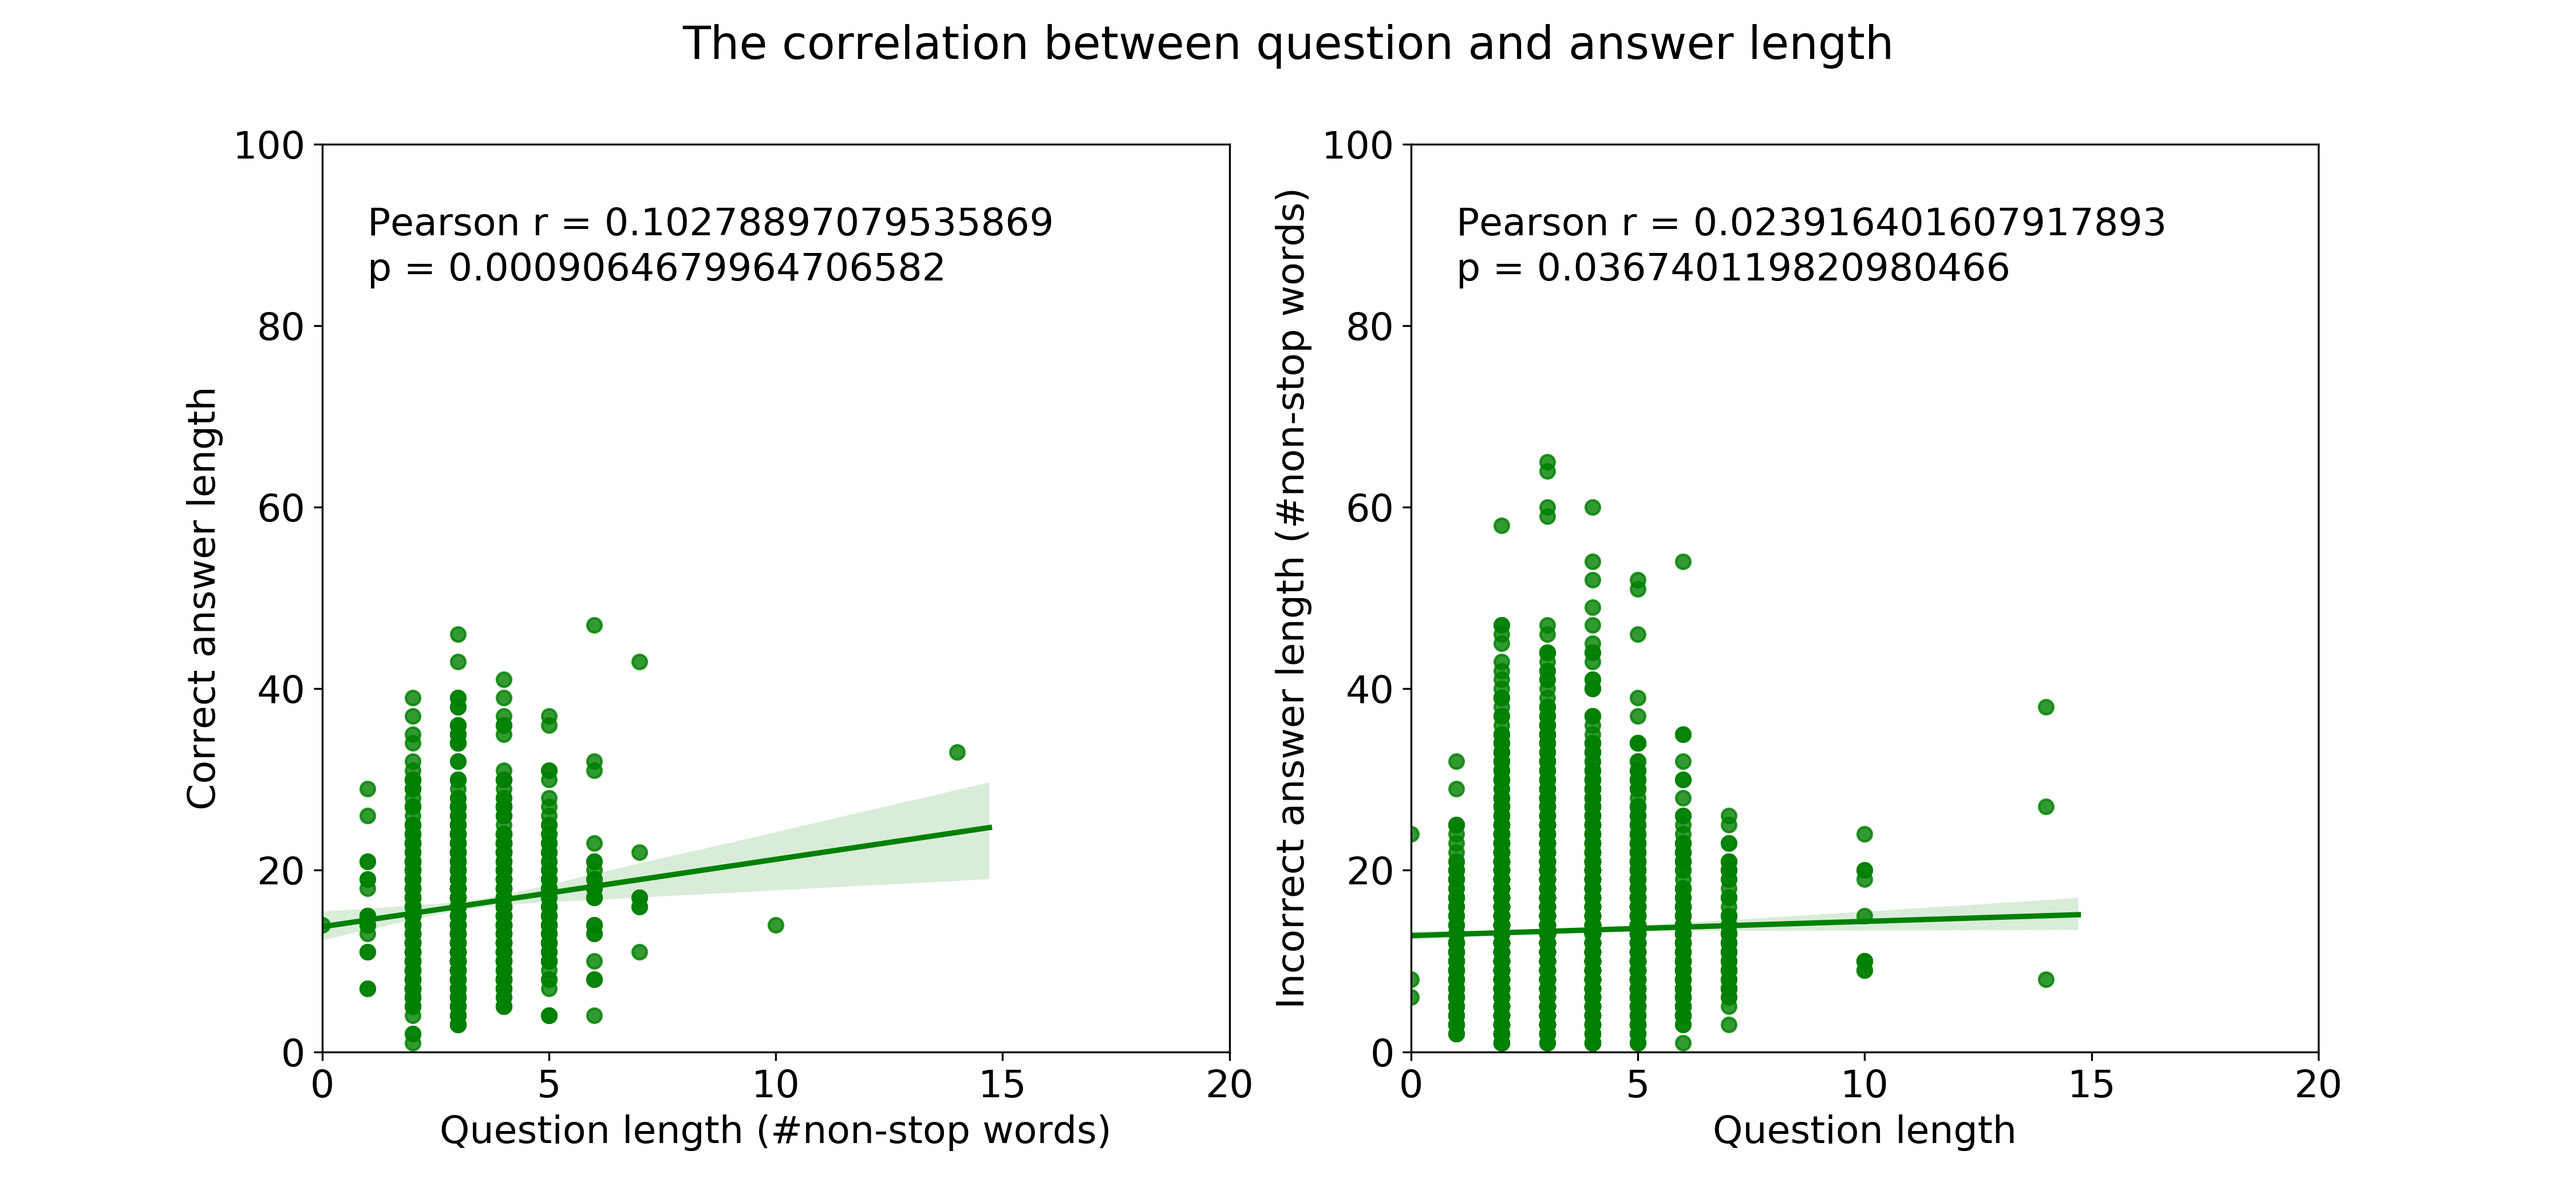
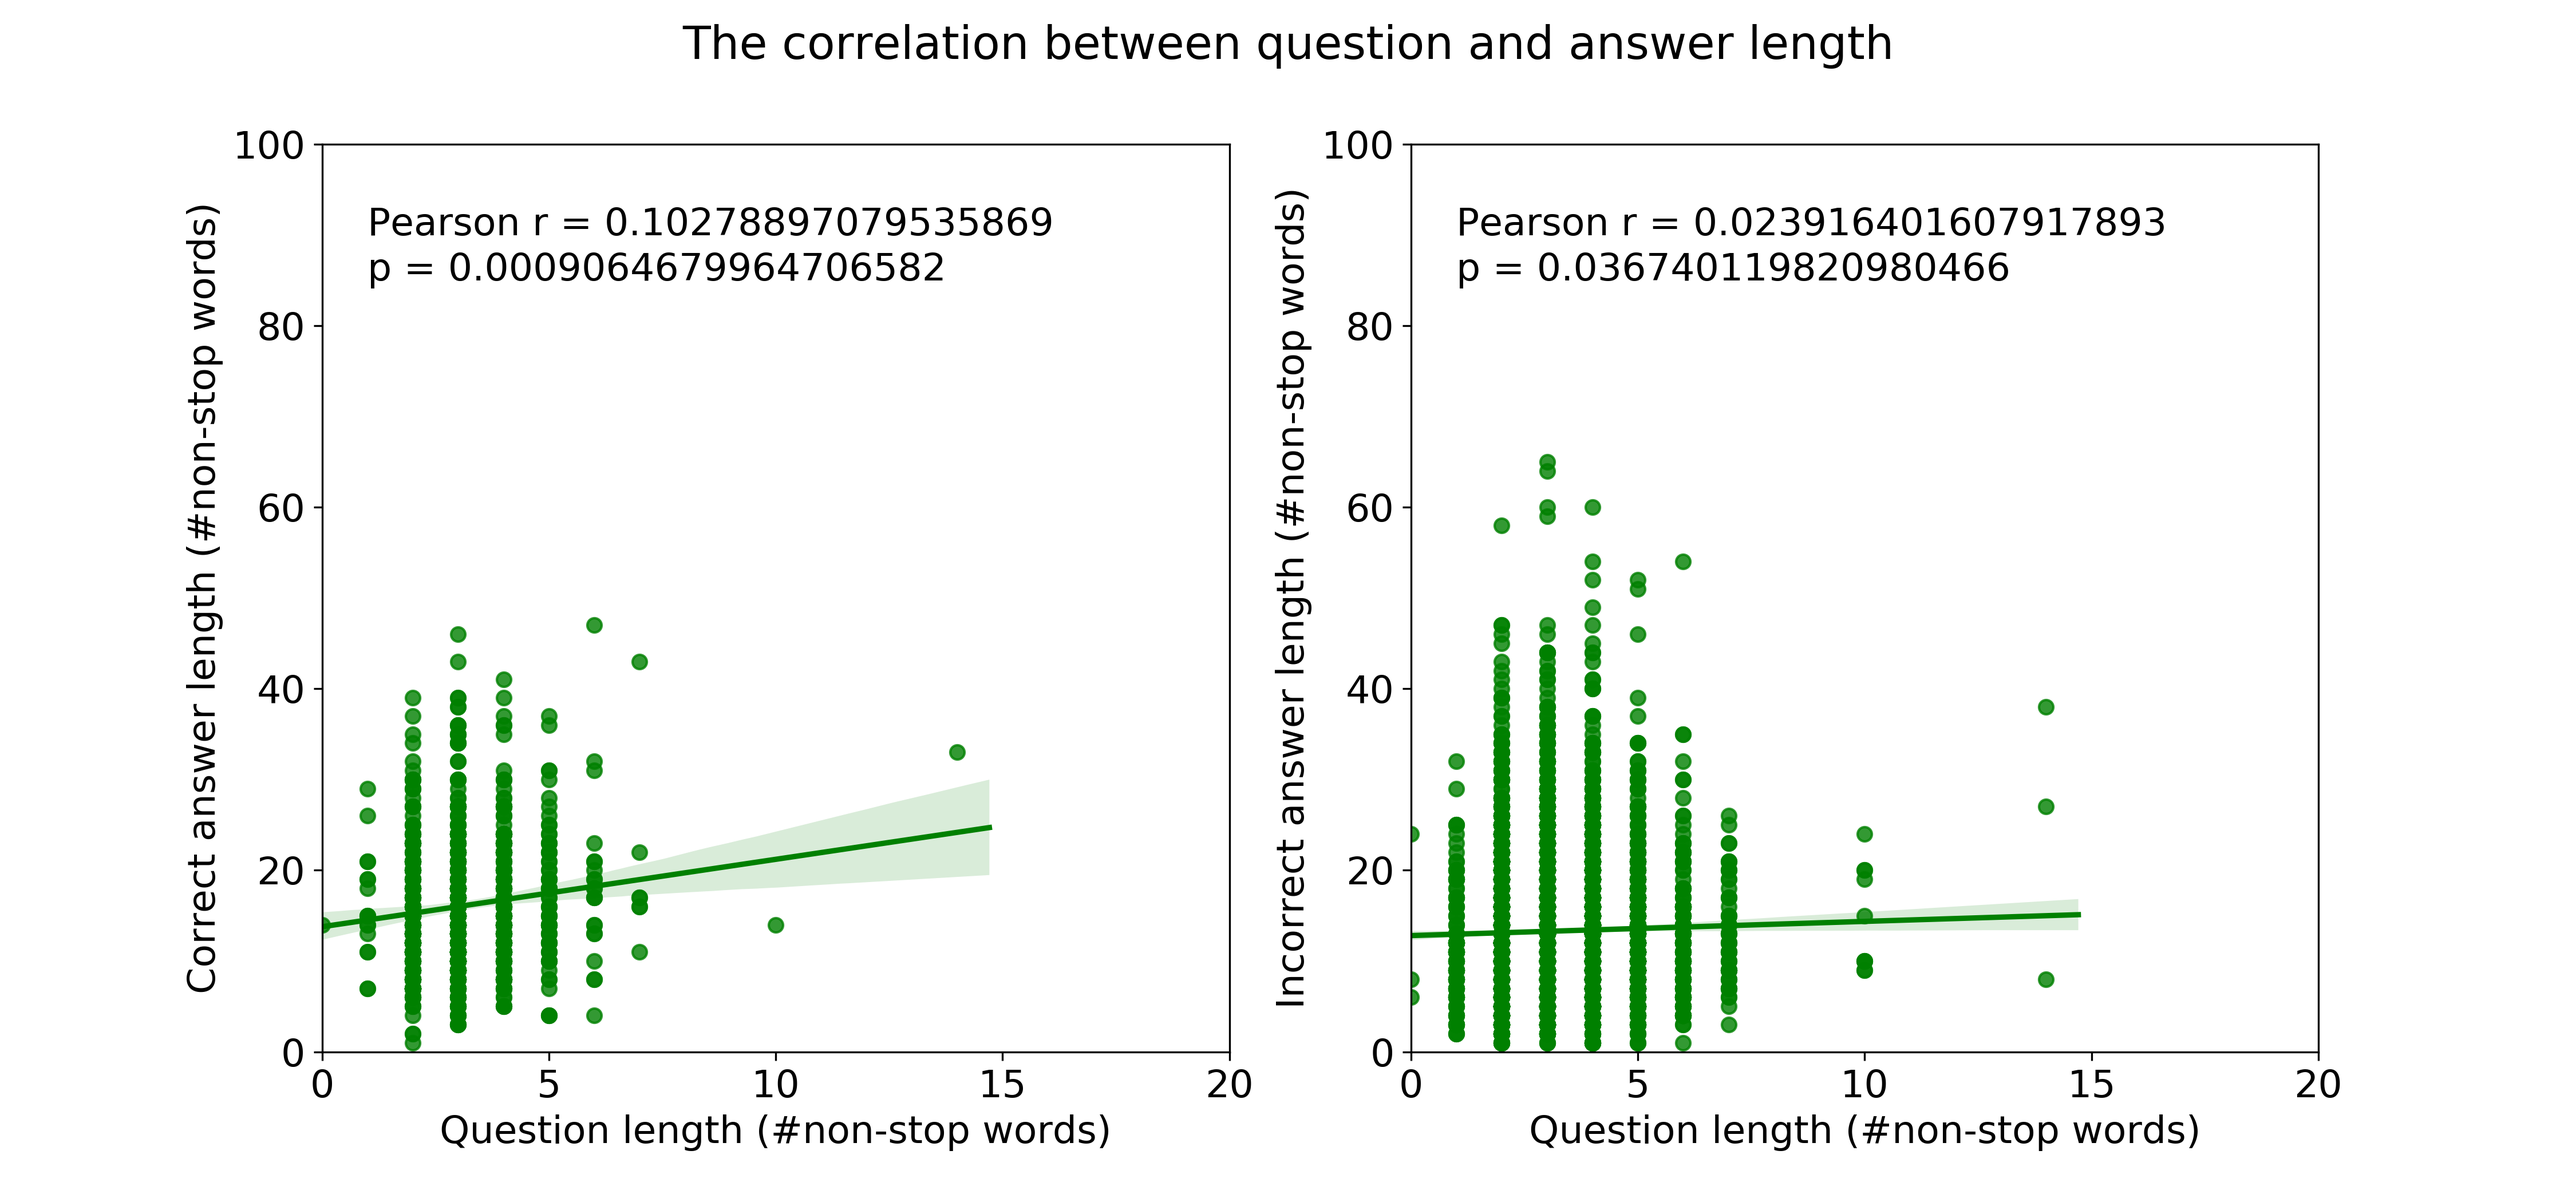
figure legend code updated and new figure added

diff --git a/ZenِDesk_BasicAnalysis.py b/ZenِDesk_BasicAnalysis.py
@@ -180,7 +180,7 @@ corr = stats.pearsonr(x=corr_sen_len[:,0], y=corr_sen_len[:,1])
 plt.text(1, 90,"Pearson r = " + str(corr[0]))
 plt.text(1, 85,"p = " + str(corr[1]))
 plt.xlabel('Question length (#non-stop words)')
-plt.ylabel('Correct answer length')
+plt.ylabel('Correct answer length (#non-stop words)')
 plt.axis([0, 20, 0, 100])
 
 
@@ -189,7 +189,7 @@ sns.regplot(x=incorr_sen_len[:,0], y=incorr_sen_len[:,1], color="g", ax=ax2)
 corr = stats.pearsonr(x=incorr_sen_len[:,0], y=incorr_sen_len[:,1])
 plt.text(1, 90,"Pearson r = " + str(corr[0]))
 plt.text(1, 85,"p = " + str(corr[1]))
-plt.xlabel('Question length')
+plt.xlabel('Question length (#non-stop words)')
 plt.ylabel('Incorrect answer length (#non-stop words)')
 plt.axis([0, 20, 0, 100])
 
